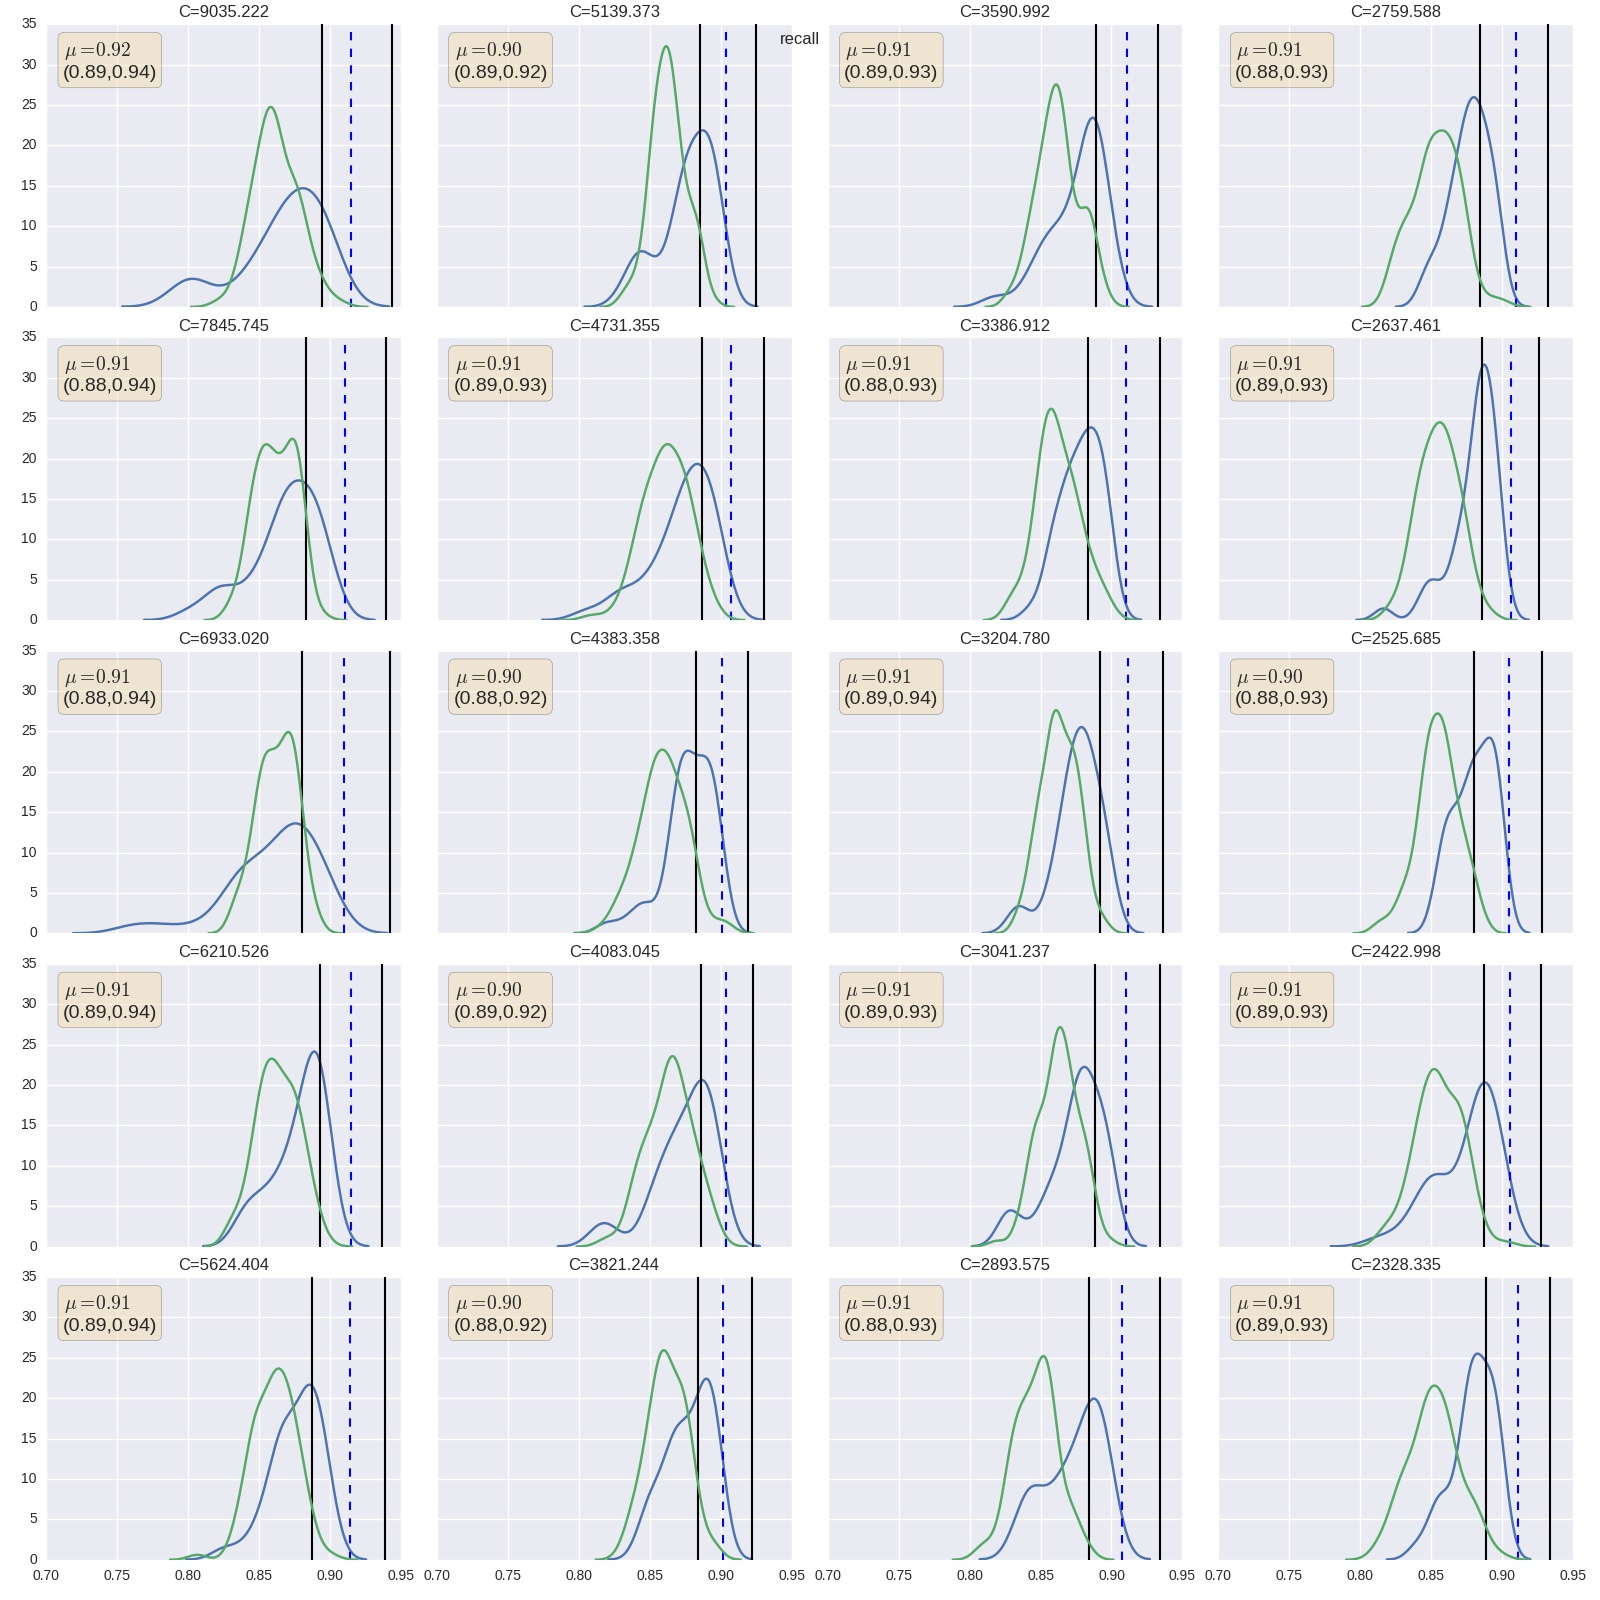
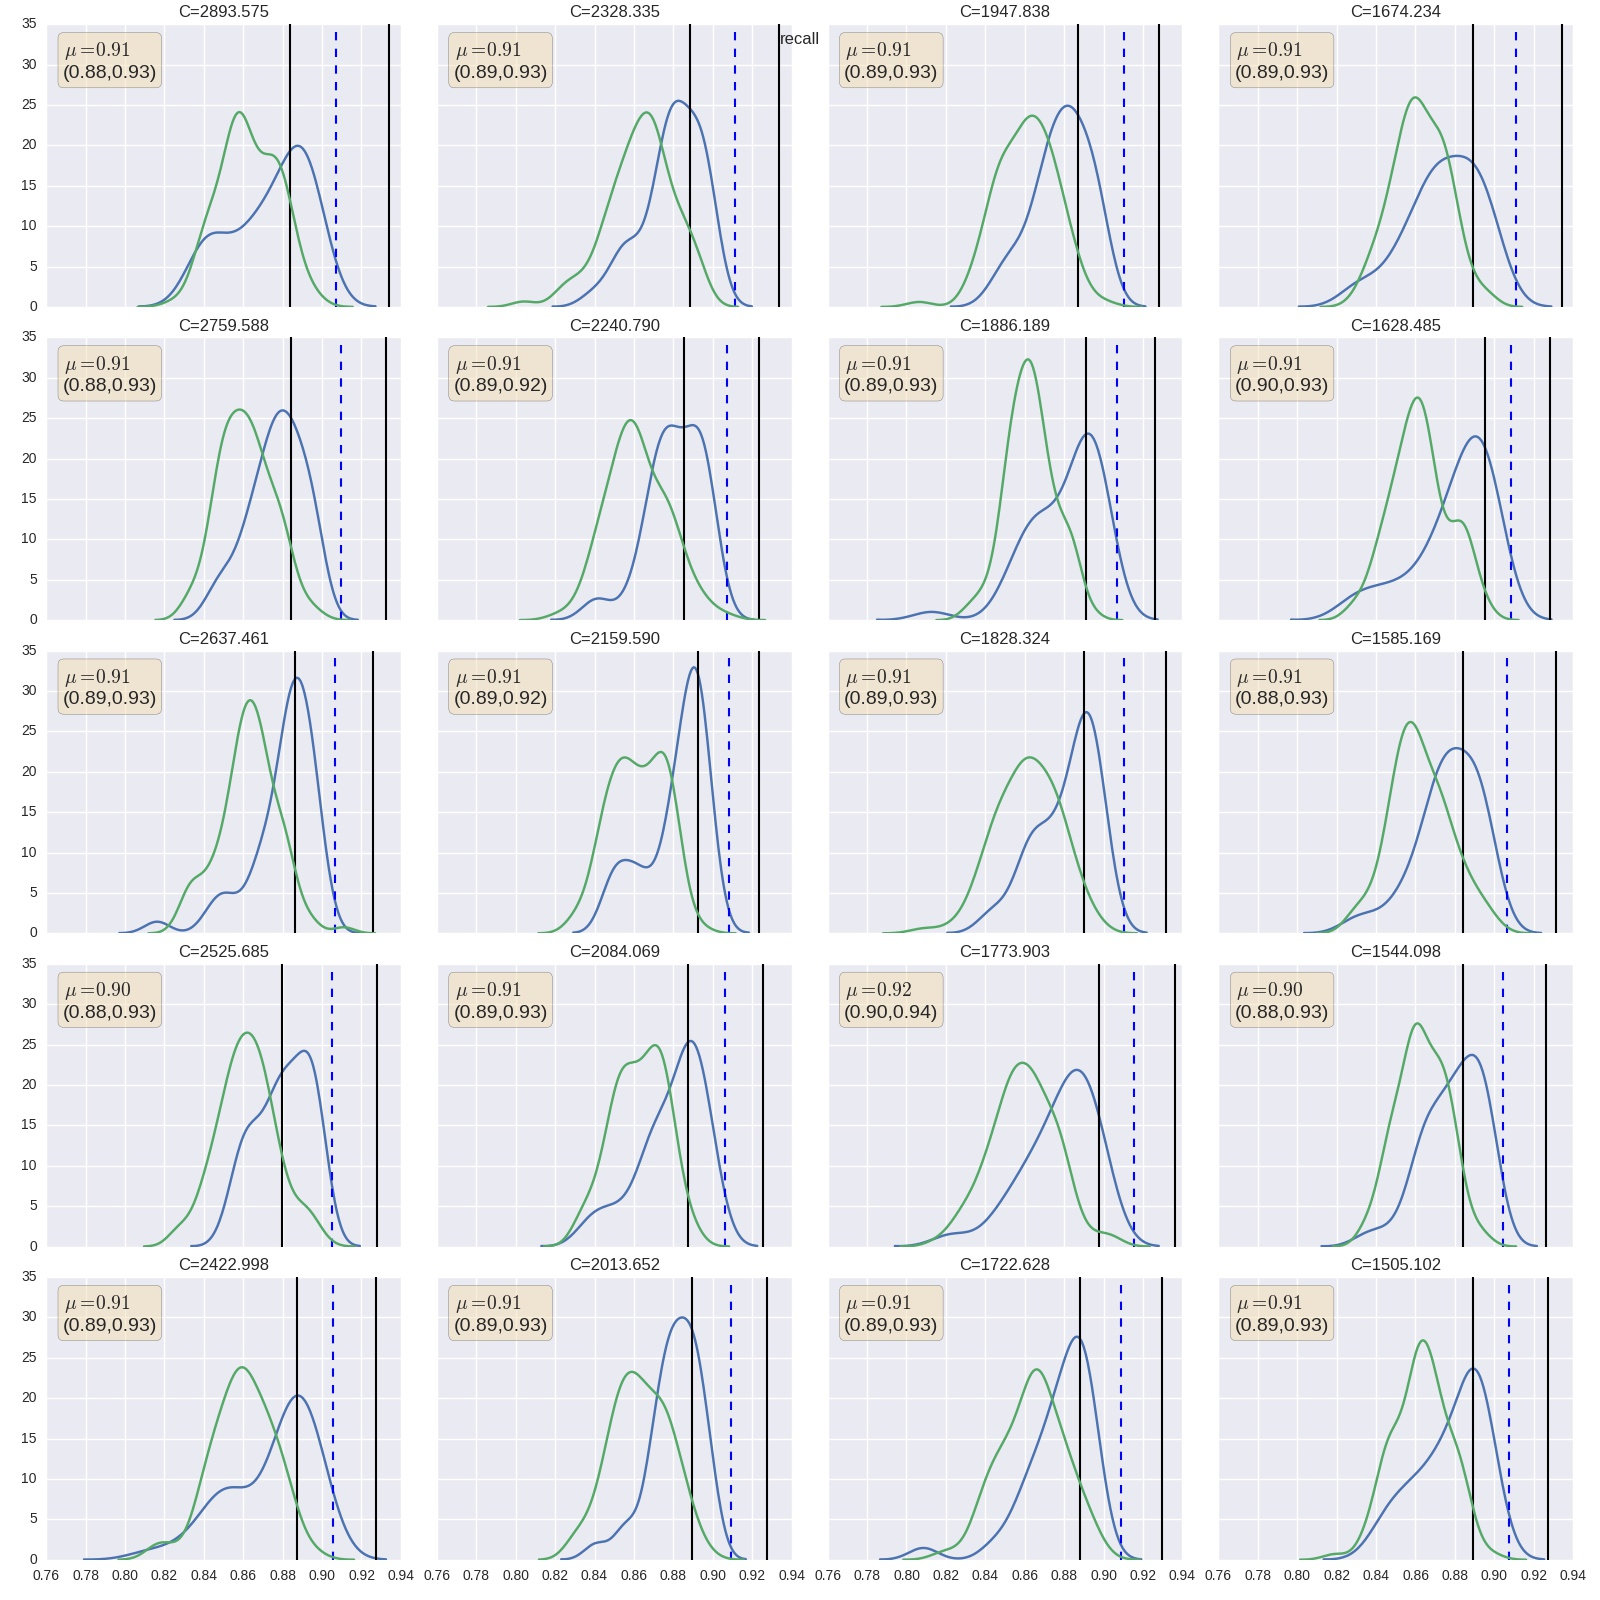
Fixed  a bit of errors

diff --git a/results2.py b/results2.py
@@ -19,33 +19,36 @@ def check(x):
 dirc = '/home/thejas/Documents/Python/regularization-params/output_T2'
 files = os.listdir(dirc)
 files.sort()
+files = files[54:60] + files[:54]
 fil = list(enumerate(files))
 f, axf = P.subplots(5,4,sharex=True)
 P.suptitle("F1")	
-f1_t        	=   []
-acc_t      		=   []
-prec_t     		=   []
-rec_t      		=   []
 
-Alpha_vals		=	[]
-
-f1_mean_t   	=   []
-acc_mean_t  	=   []
-prec_mean_t 	=   []
-rec_mean_t  	=   []
-
-f1_precentile	=	[]
-acc_precentile	=	[]
-prec_precentile	=	[]
-rec_precentile	=	[]
 for num in range(0,3):
 	f_fil = files[num*20:(num+1)*20]
 	fil = list(enumerate(f_fil))
 	print len(fil)
+	Alpha_vals		=	[]
+	f1_t        	=   []
+	acc_t      		=   []
+	prec_t     		=   []
+	rec_t      		=   []
+
+
+	f1_mean_t   	=   []
+	acc_mean_t  	=   []
+	prec_mean_t 	=   []
+	rec_mean_t  	=   []
+
+	f1_precentile	=	[]
+	acc_precentile	=	[]
+	prec_precentile	=	[]
+	rec_precentile	=	[]
 	for nu,fi in fil:
 	#for c in range(3,-4,-1):
 		#alpha = 10**c
 		alpha = fi.split('_')[1].split('.csv')[0]
+		
 		#n = "output/alpha_" + str(alpha) + ".csv"
 		fip = dirc  + "/" + fi
 		Alpha_vals.append(float(alpha))
